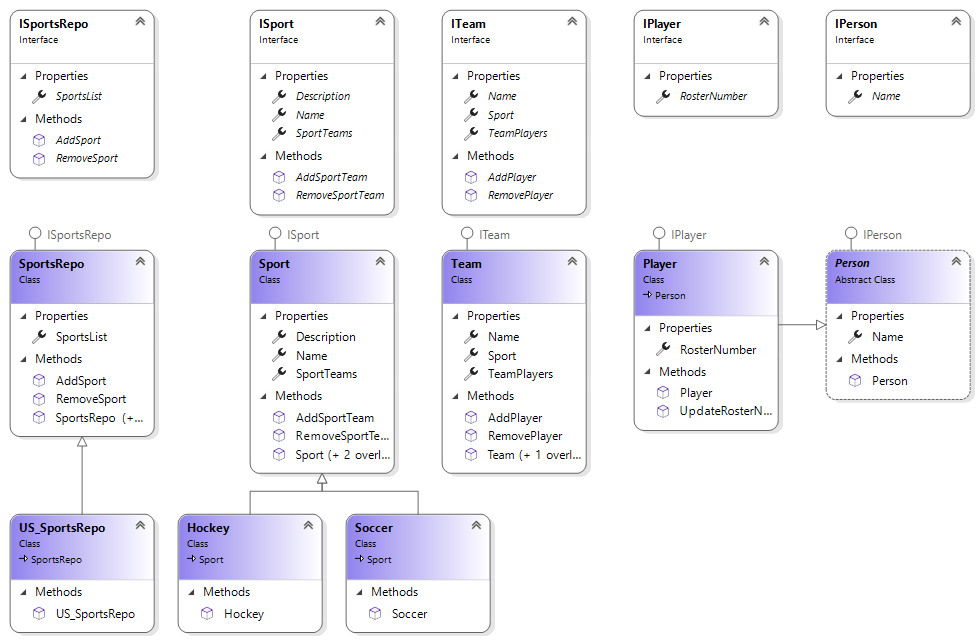
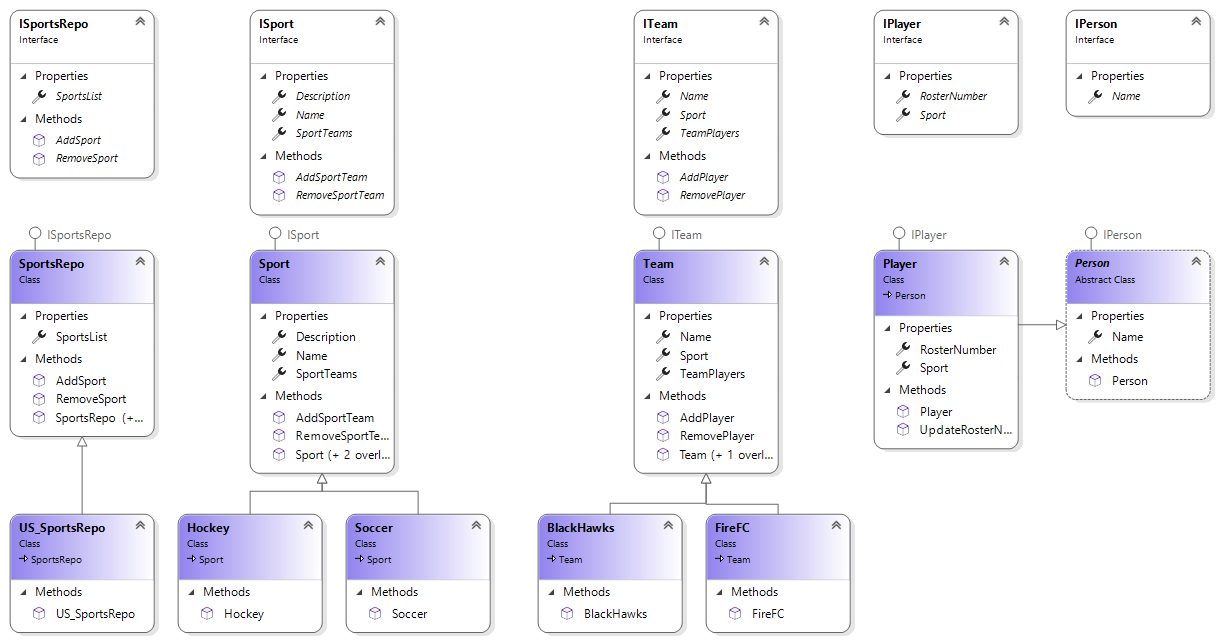
add better readme, tests, and UML

diff --git a/SportsLibTests/LibTests/SportsRepoTests.cs b/SportsLibTests/LibTests/SportsRepoTests.cs
@@ -3,6 +3,7 @@ using SportsLib.Interfaces;
 using SportsLib.Models;
 using Moq;
 using System.Collections.Generic;
+using SportsLib.US_Sports;
 
 namespace SportsLibTests
 {
@@ -20,10 +21,10 @@ namespace SportsLibTests
         Team BravoTeam;
         string team2Name = "Bravo Team";
         // team members declarations
-        Player member1 = new Player("Mark", 16);
-        Player member2 = new Player("Luca", 22);
-        Player member3 = new Player("Josue", 9);
-        Player member4 = new Player("Adrian", 13);
+        Player member1;
+        Player member2;
+        Player member3;
+        Player member4;
         // REPO declaration
         SportsRepo sportsRepo;
 
@@ -41,20 +42,23 @@ namespace SportsLibTests
             AlphaTeam = new Team(mySport, team1Name);
             BravoTeam = new Team(mySport, team2Name);
 
+            // Players
+            member1 = new Player("Mark", 16, mySport);
+            member2 = new Player("Luca", 22, mySport);
+            member3 = new Player("Josue", 9, mySport);
+            member4 = new Player("Adrian", 13, mySport);
+
+
             AlphaTeam.AddPlayer(member1);
             AlphaTeam.AddPlayer(member2);
             BravoTeam.AddPlayer(member3);
             BravoTeam.AddPlayer(member4);
 
             // insert into mockSport
-            //testTeams.Add(AlphaTeam);
-            //testTeams.Add(BravoTeam);
-
-            // insert to 
             mySport.SportTeams.Add(AlphaTeam);
             mySport.SportTeams.Add(BravoTeam);
 
-            sportsRepo = new SportsRepo(new List<ISport>() { mySport });
+            sportsRepo = new US_SportsRepo(new List<ISport>() { mySport });
         }
 
         [TestMethod]

diff --git a/SportsLibTests/LibTests/TeamTests.cs b/SportsLibTests/LibTests/TeamTests.cs
@@ -73,8 +73,9 @@ namespace SportsLibTests
         public void RemovesTeamMembers()
         {
             // arrange
-            Player p1 = new Player("Adrian", 7);
-            Player p2 = new Player("Luca", 22);
+            var mockSport = new Mock<ISport>();
+            Player p1 = new Player("Adrian", 7, mockSport.Object);
+            Player p2 = new Player("Luca", 22, mockSport.Object);
             myTeam.TeamPlayers.Add(p1);
             myTeam.TeamPlayers.Add(p2);
             int teamMembersCountOG = myTeam.TeamPlayers.Count, teamMemberCountAfter1;

diff --git a/SportsLib/US_Sports/US_SportsRepo.cs b/SportsLib/US_Sports/US_SportsRepo.cs
@@ -1,4 +1,5 @@
-using SportsLib.Models;
+using SportsLib.Interfaces;
+using SportsLib.Models;
 using System;
 using System.Collections.Generic;
 using System.Linq;
@@ -10,5 +11,6 @@ namespace SportsLib.US_Sports
     public class US_SportsRepo : SportsRepo
     {
         public US_SportsRepo(): base() { }
+        public US_SportsRepo(List<ISport> _sportsList) : base(_sportsList) { }
     }
 }

diff --git a/SportsLib/Models/SportsRepo.cs b/SportsLib/Models/SportsRepo.cs
@@ -7,7 +7,7 @@ using System.Threading.Tasks;
 
 namespace SportsLib.Models
 {
-    public class SportsRepo : ISportsRepo
+    public abstract class SportsRepo : ISportsRepo
     {
         public List<ISport> SportsList { get; set; }
         public SportsRepo() { }

diff --git a/SportsLib/Models/Sport.cs b/SportsLib/Models/Sport.cs
@@ -4,7 +4,7 @@ using System.Collections.Generic;
 
 namespace SportsLib.Models
 {
-    public class Sport : ISport
+    public abstract class Sport : ISport
     {
         public string Name { get; set; }
 

diff --git a/README.md b/README.md
@@ -1,1 +1,6 @@
 # C# Sports APP - MVC
+
+## UML Preview
+[![UML](./SportsFinalUML.png)]()
+
+
